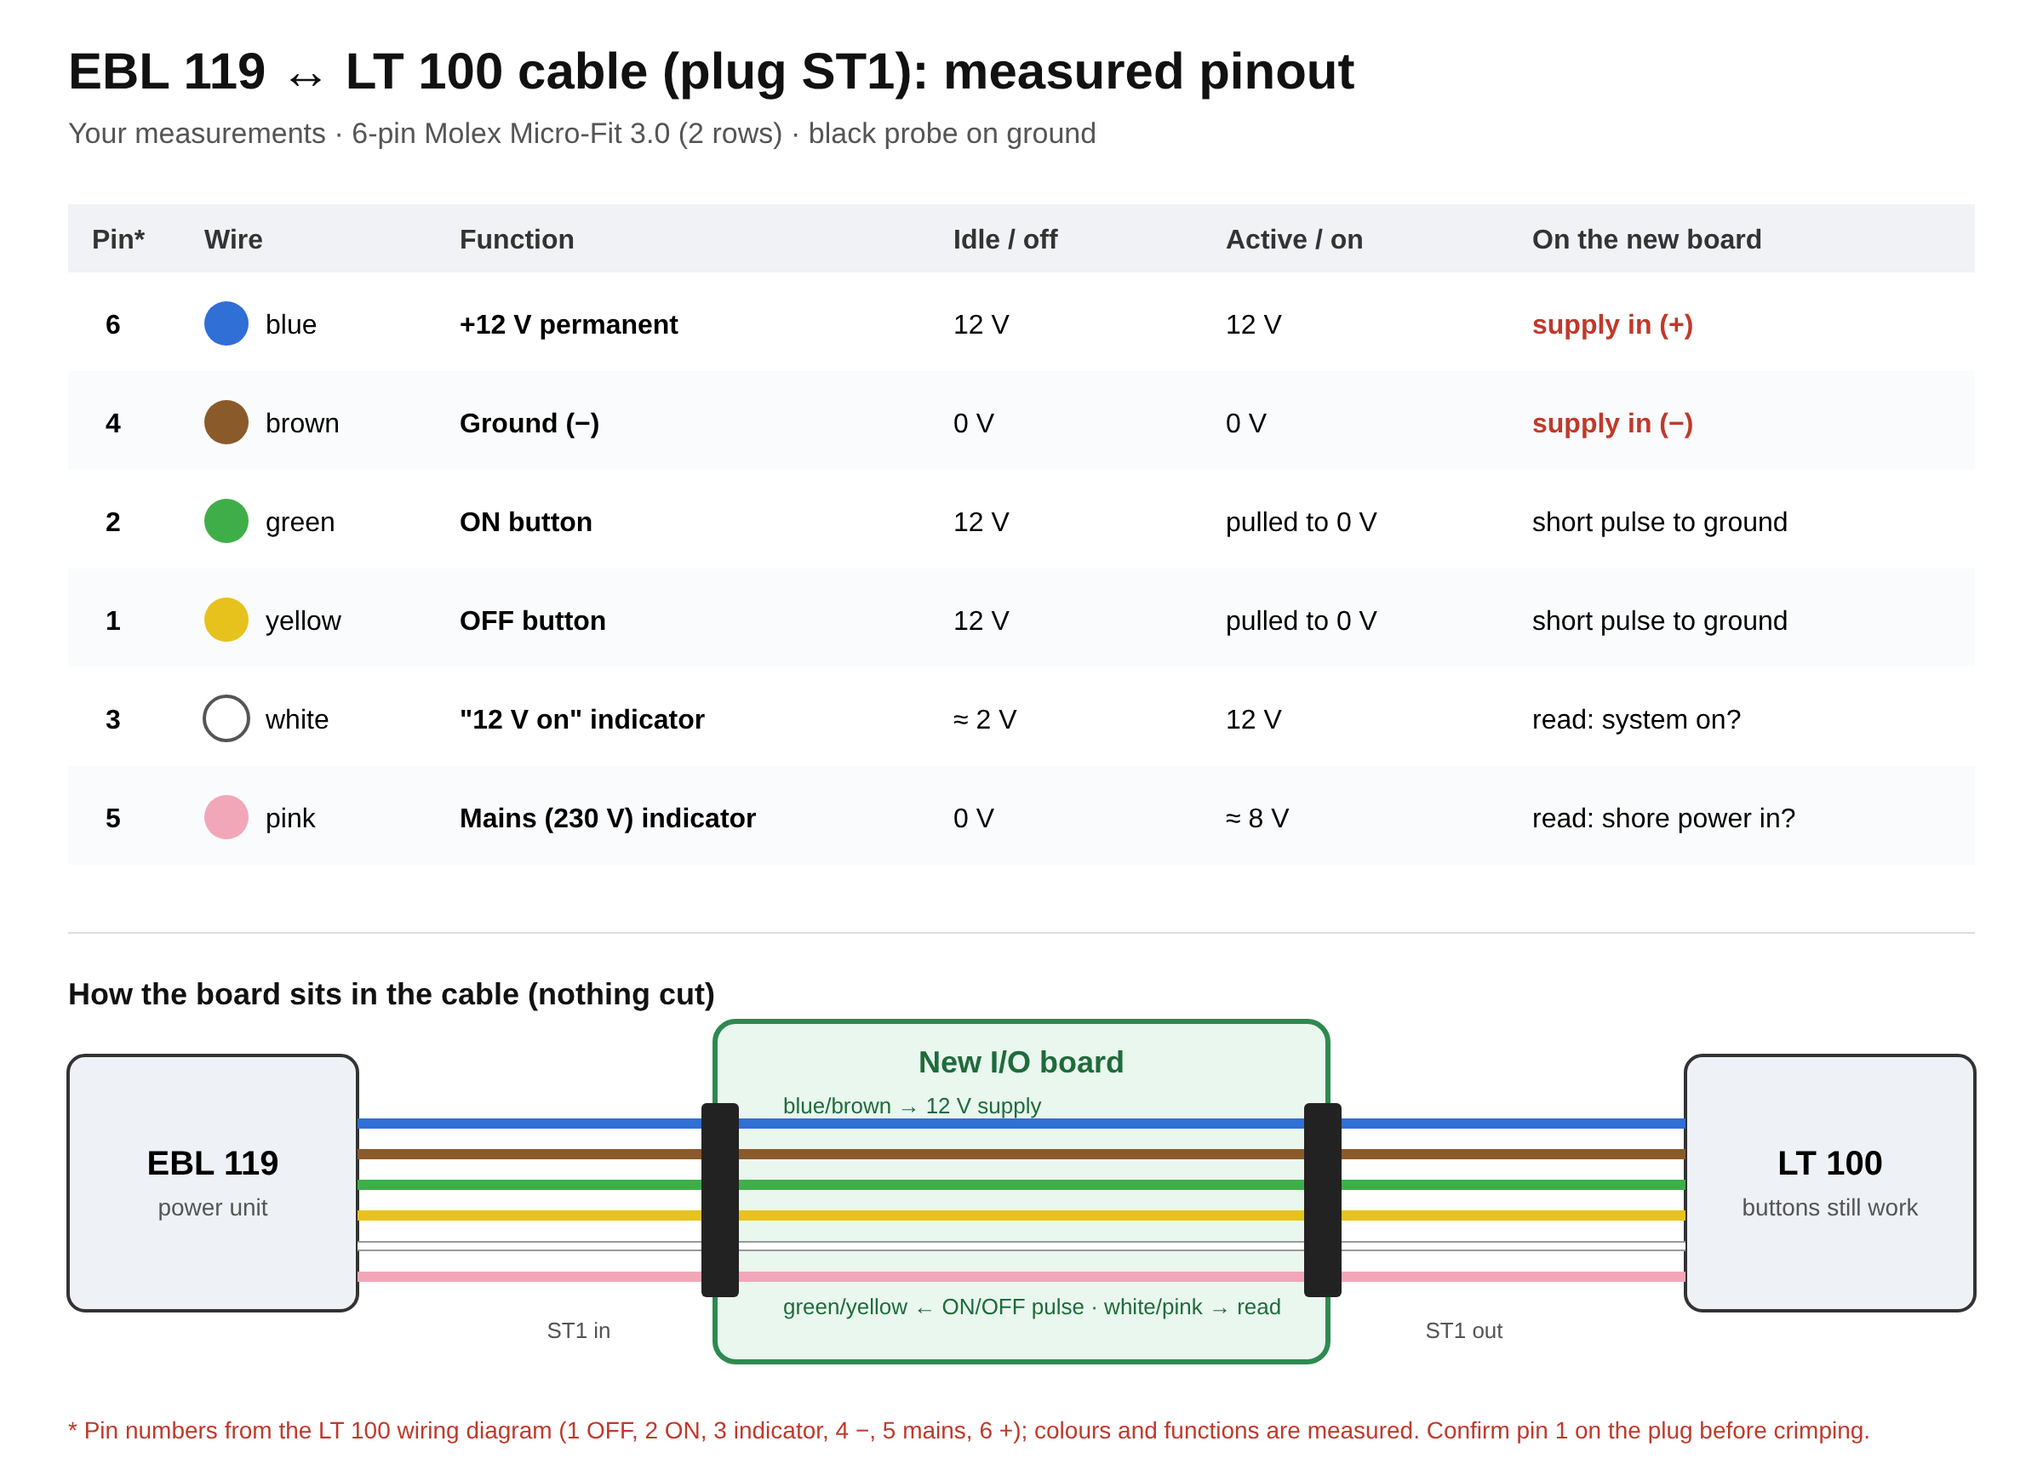
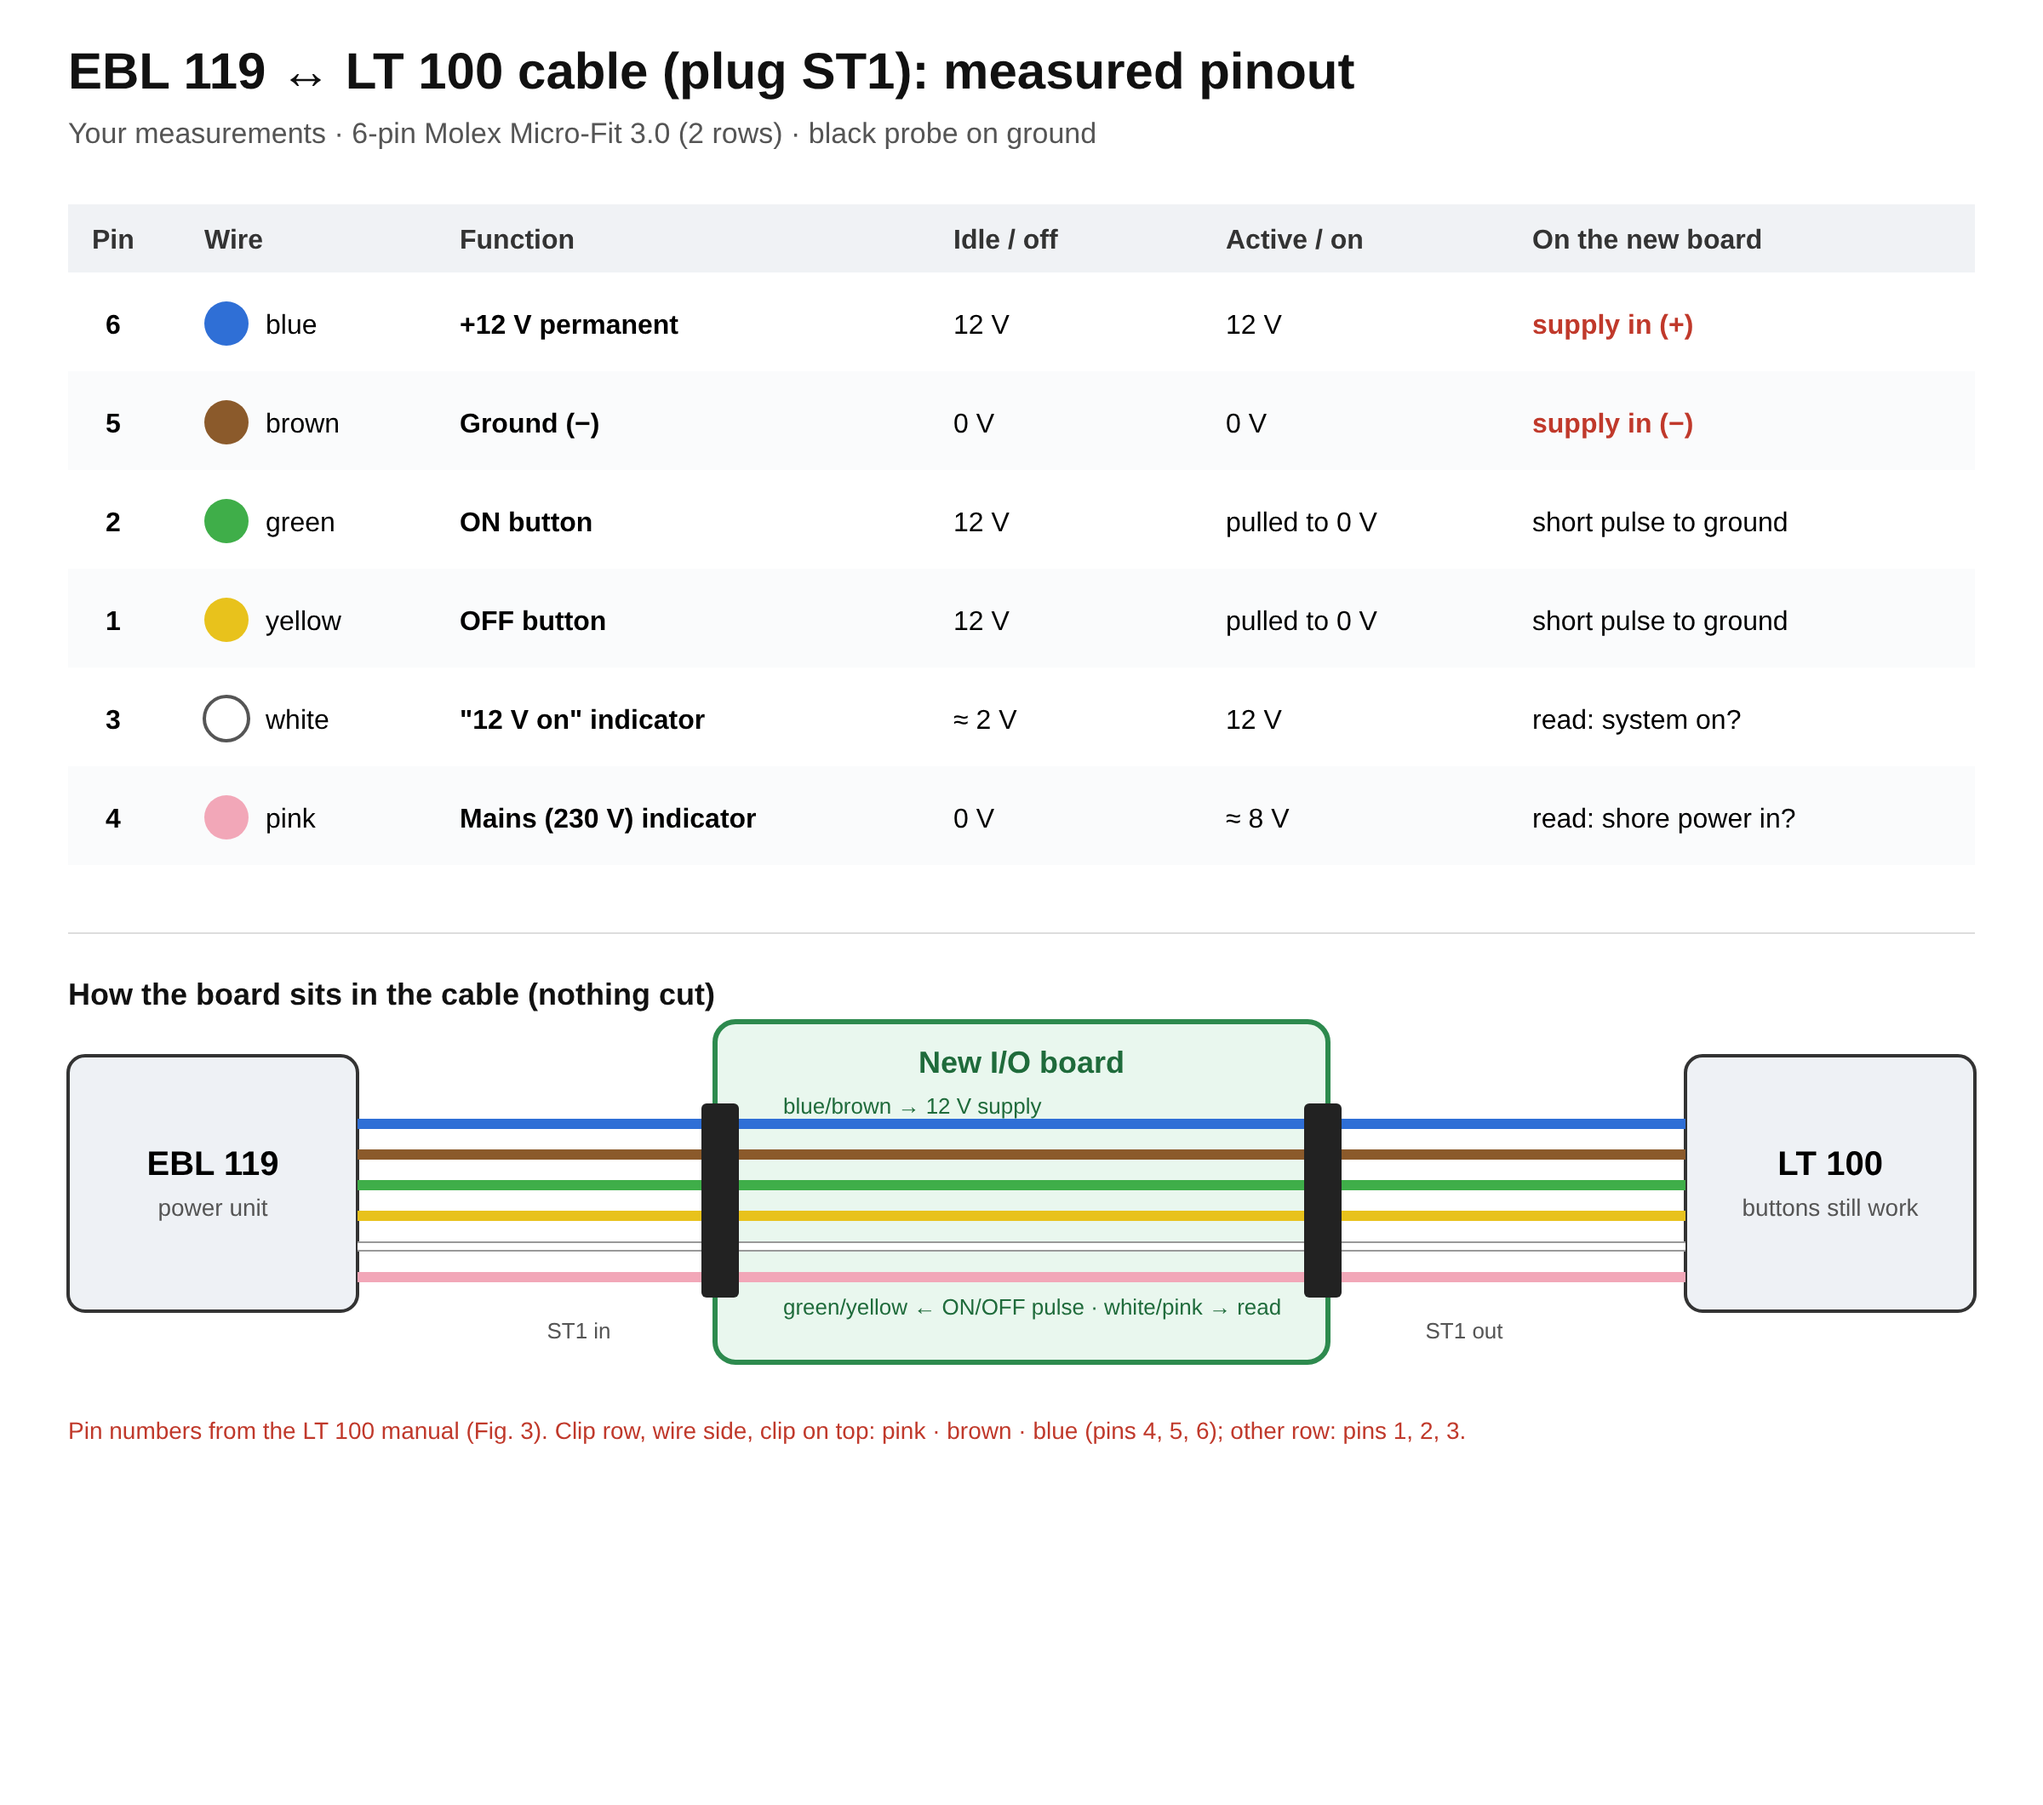
I/O board spec: ST1 pin numbers corrected (#81)
* Mods page: clean Water and Heater tabs, dial thermostat, settings folded below

Claude-Session: https://claude.ai/code/session_017Ac5dLa5nMit1aiT2DcVLT

* Mods page: remove the Pi power supply card from the Overview

The small Low power chip top right stays, only while the supply is too low.

Claude-Session: https://claude.ai/code/session_017Ac5dLa5nMit1aiT2DcVLT

* Mods page: update progress stays when you switch tabs and come back

The progress of the Venus OS mods update (Update tab) and of the sensor
firmware update (Water tab) is kept outside the tab and shown again on
return; after a reload a running update is picked up and followed.

Claude-Session: https://claude.ai/code/session_017Ac5dLa5nMit1aiT2DcVLT

* Sensor update log says Wi-Fi when the Pi talks to the sensor over Wi-Fi

The water driver sends the firmware over its own link, which is the Wi-Fi
network when it reaches the sensor that way; the log said Bluetooth.

Claude-Session: https://claude.ai/code/session_017Ac5dLa5nMit1aiT2DcVLT

* Update log kept on the Update tab; Water debug log shows Wi-Fi readings

- Update tab: the log of the last update is shown below (folded). After an
  update the page reloads onto the Update tab with that log open; it also
  stays when the check fails while the page server restarts.
- Debug -> Water: over Wi-Fi the reading is written too (when it changes,
  else once a minute); before only Bluetooth broadcasts were logged.
- Version 2.5.1.
[…]

diff --git a/docs/io-board.md b/docs/io-board.md
@@ -53,17 +53,19 @@ button and LED, the USB-C tablet socket and the status LED.
 
 ![ST1 pinout](io-board/ebl-lt100-st1.png)
 
-| Pin* | Wire | Function | Idle / off | Active / on | On the board |
+| Pin | Wire | Function | Idle / off | Active / on | On the board |
 |---|---|---|---|---|---|
 | 6 | blue | +12 V permanent | 12 V | 12 V | supply + and battery voltage |
-| 4 | brown | ground | 0 V | 0 V | supply − |
+| 5 | brown | ground | 0 V | 0 V | supply − |
 | 2 | green | ON button | 12 V | pulled to 0 V | pulse to ground |
 | 1 | yellow | OFF button | 12 V | pulled to 0 V | pulse to ground |
 | 3 | white | "12 V on" indicator | ≈ 2 V | 12 V | input, threshold ≈ 6 V; also the front LED |
-| 5 | pink | mains (230 V) indicator | 0 V | ≈ 8 V | input, threshold ≈ 4 V |
+| 4 | pink | mains (230 V) indicator | 0 V | ≈ 8 V | input, threshold ≈ 4 V |
 
-\* Pin numbers from the LT 100 wiring diagram; colours and functions are measured in the van.
-Check the moulded pin-1 mark on the plug.
+Pin numbers from the LT 100 wiring diagram (Fig. 3: 1 OFF, 2 ON, 3 indicator, 4 mains,
+5 − sensor, 6 + sensor); colours and functions measured in the van. Plug position confirmed:
+looking at the wire side with the clip on top, the clip row is **pink · brown · blue** (pins 4, 5, 6)
+and the other row holds yellow, green and white (pins 1, 2, 3).
 
 * The EBL needs a panel on ST1 to work; that is now the board.
 * ON/OFF: optocoupler outputs to ground, pulse about 300 ms; the white wire confirms.
@@ -221,5 +223,5 @@ I²C addresses: LIS2DW12 0x18, SHT40 0x44; expansion boards use other addresses.
 
 ## Still open
 
-* Confirm the pin-1 marks of ST1 and ST2.
+* ST1 bottom row order (yellow, green, white expected; check left to right with the clip on top).
 * Schematic, parts list with order numbers, layout (KiCad), then one prototype before more.
